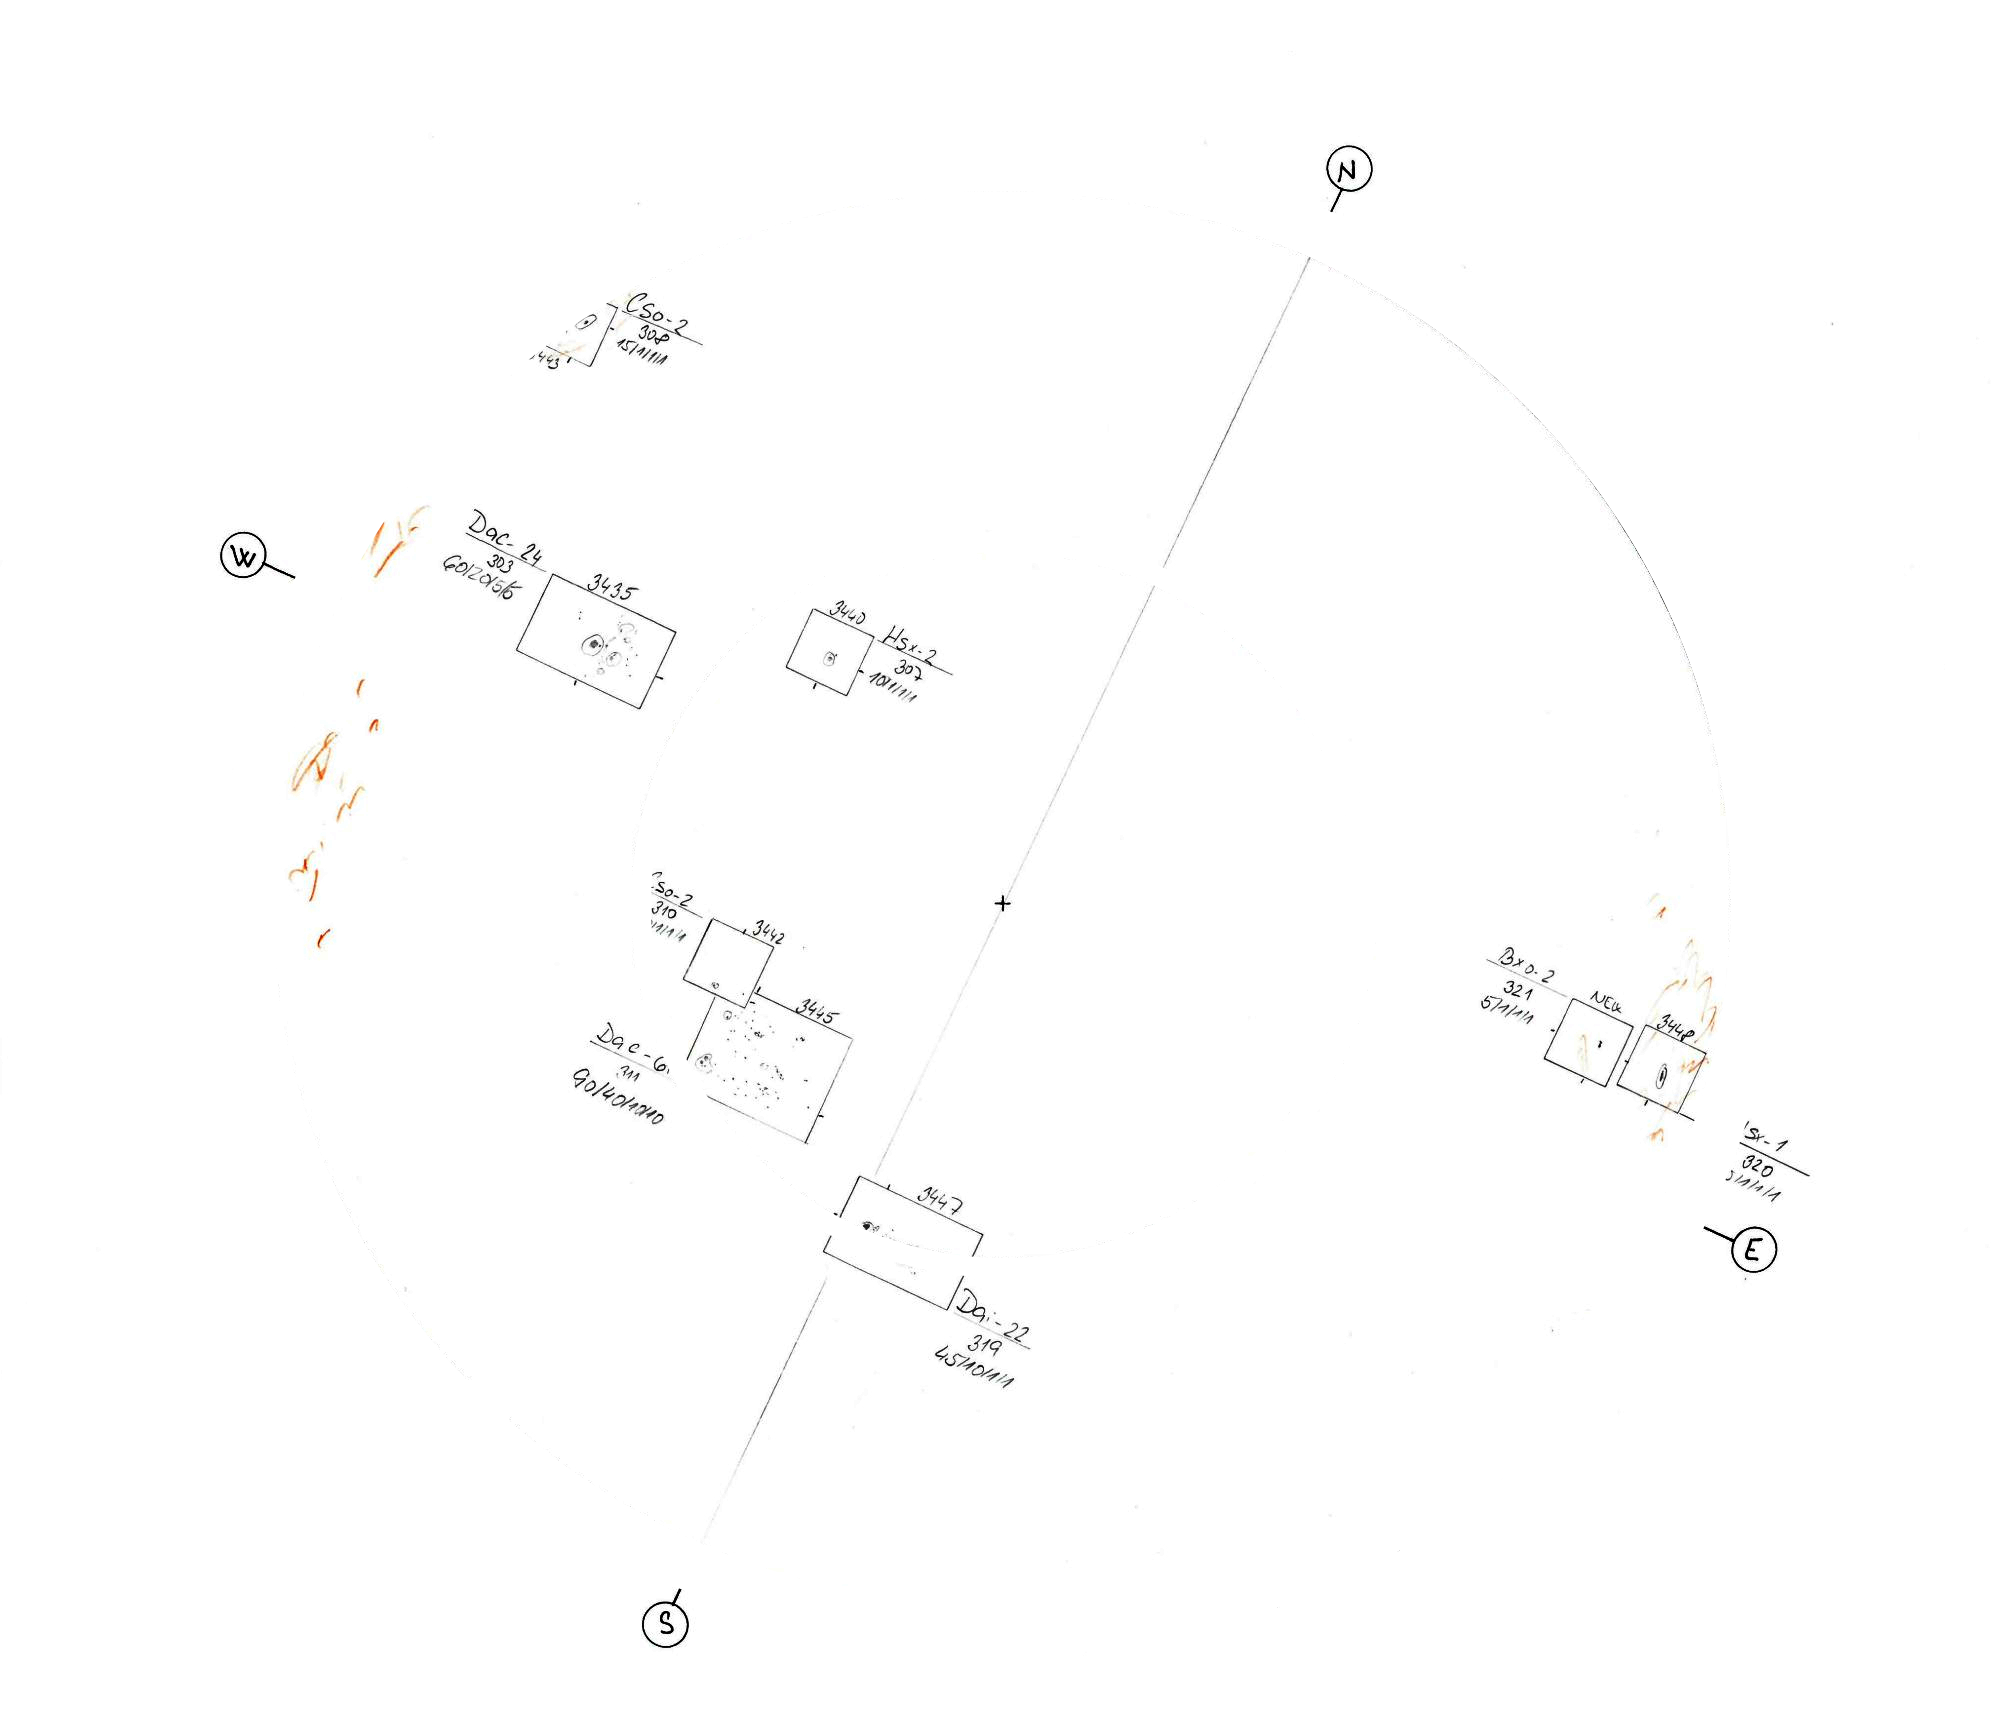
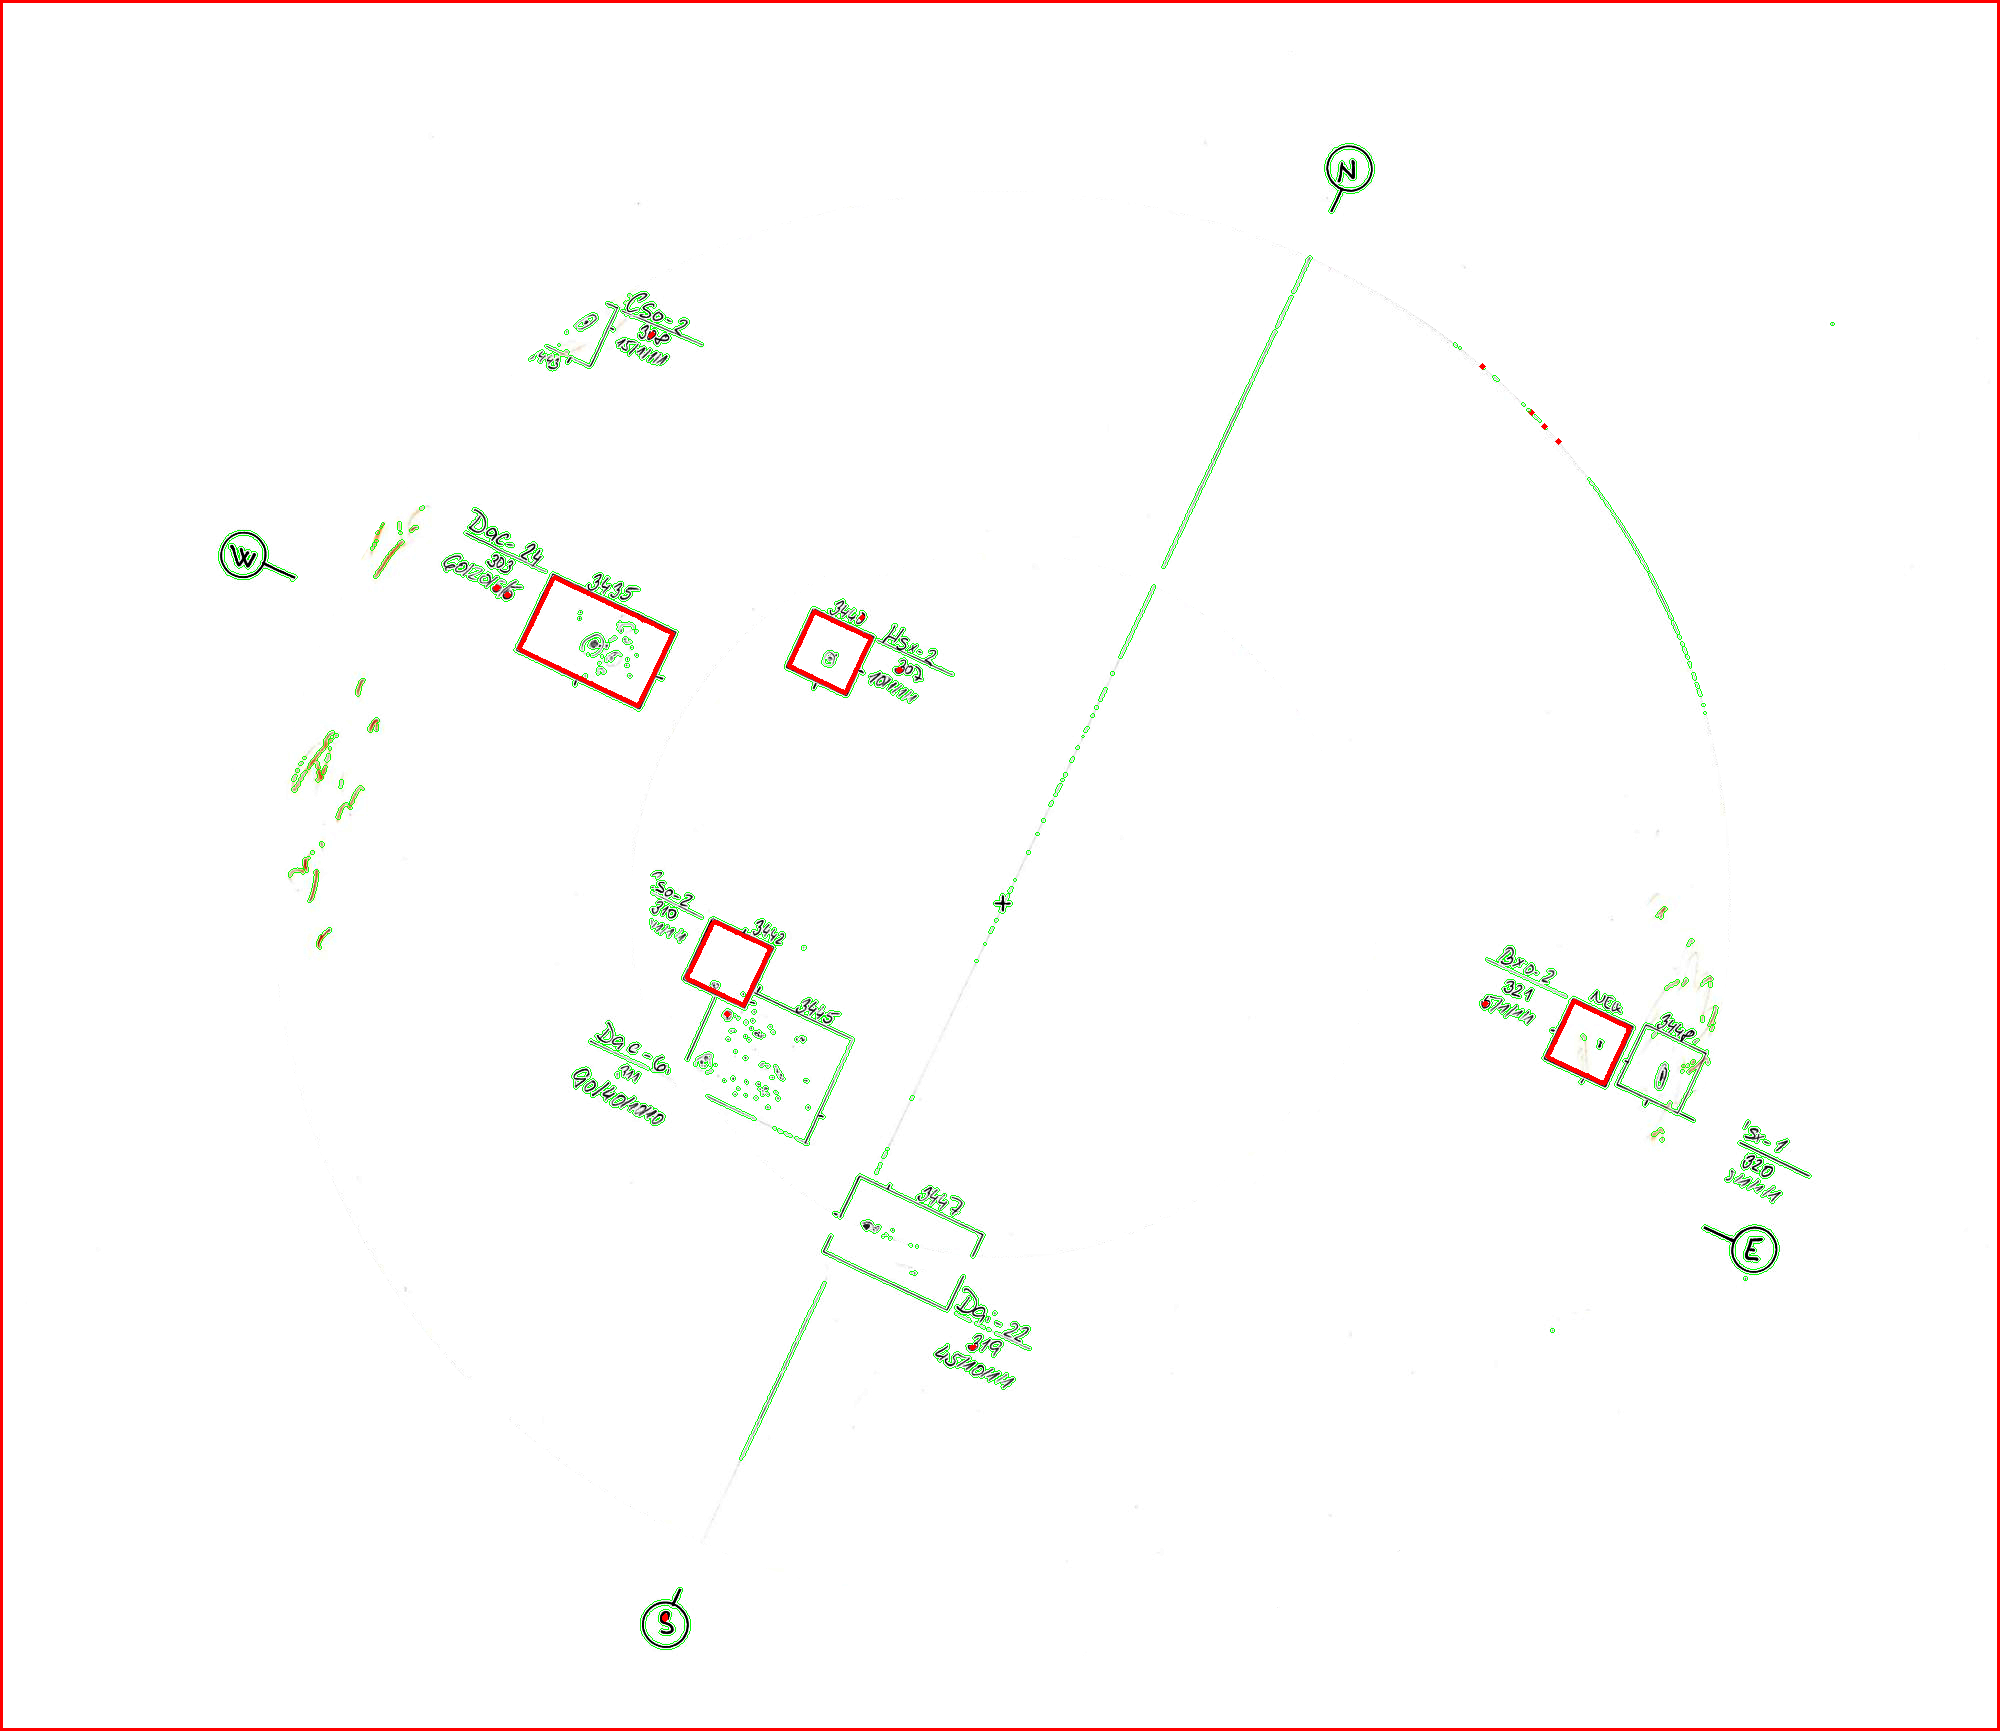
vše jde, ale není to popsané

diff --git a/all_in_one/all_in_one.py b/all_in_one/all_in_one.py
@@ -43,10 +43,10 @@ def find_rectangles(img, colored, base):
 
     for i, cnt in enumerate(contours):
         approx = cv2.approxPolyDP(cnt, 0.01 * cv2.arcLength(cnt, True), True)
-        #colored = cv2.drawContours(colored, [cnt], -1, (0, 255, 0), 1)
+        colored = cv2.drawContours(colored, [cnt], -1, (0, 255, 0), 1)
 
         if len(approx) == 4:
-            #colored = cv2.drawContours(colored, [cnt], -1, (0, 0, 255), 3)
+            colored = cv2.drawContours(colored, [cnt], -1, (0, 0, 255), 3)
             x, y, w, h = cv2.boundingRect(approx)
             if w+h>20:
                 roi = base[y:y+h, x:x+w]
@@ -56,7 +56,7 @@ def find_rectangles(img, colored, base):
                 cv2.imwrite(filename, roi)
 
     
-    cv2.imshow("cv2_image", colored)
+    cv2.imshow("colored", colored)
     cv2.waitKey(0)
     cv2.destroyAllWindows()
     return colored
